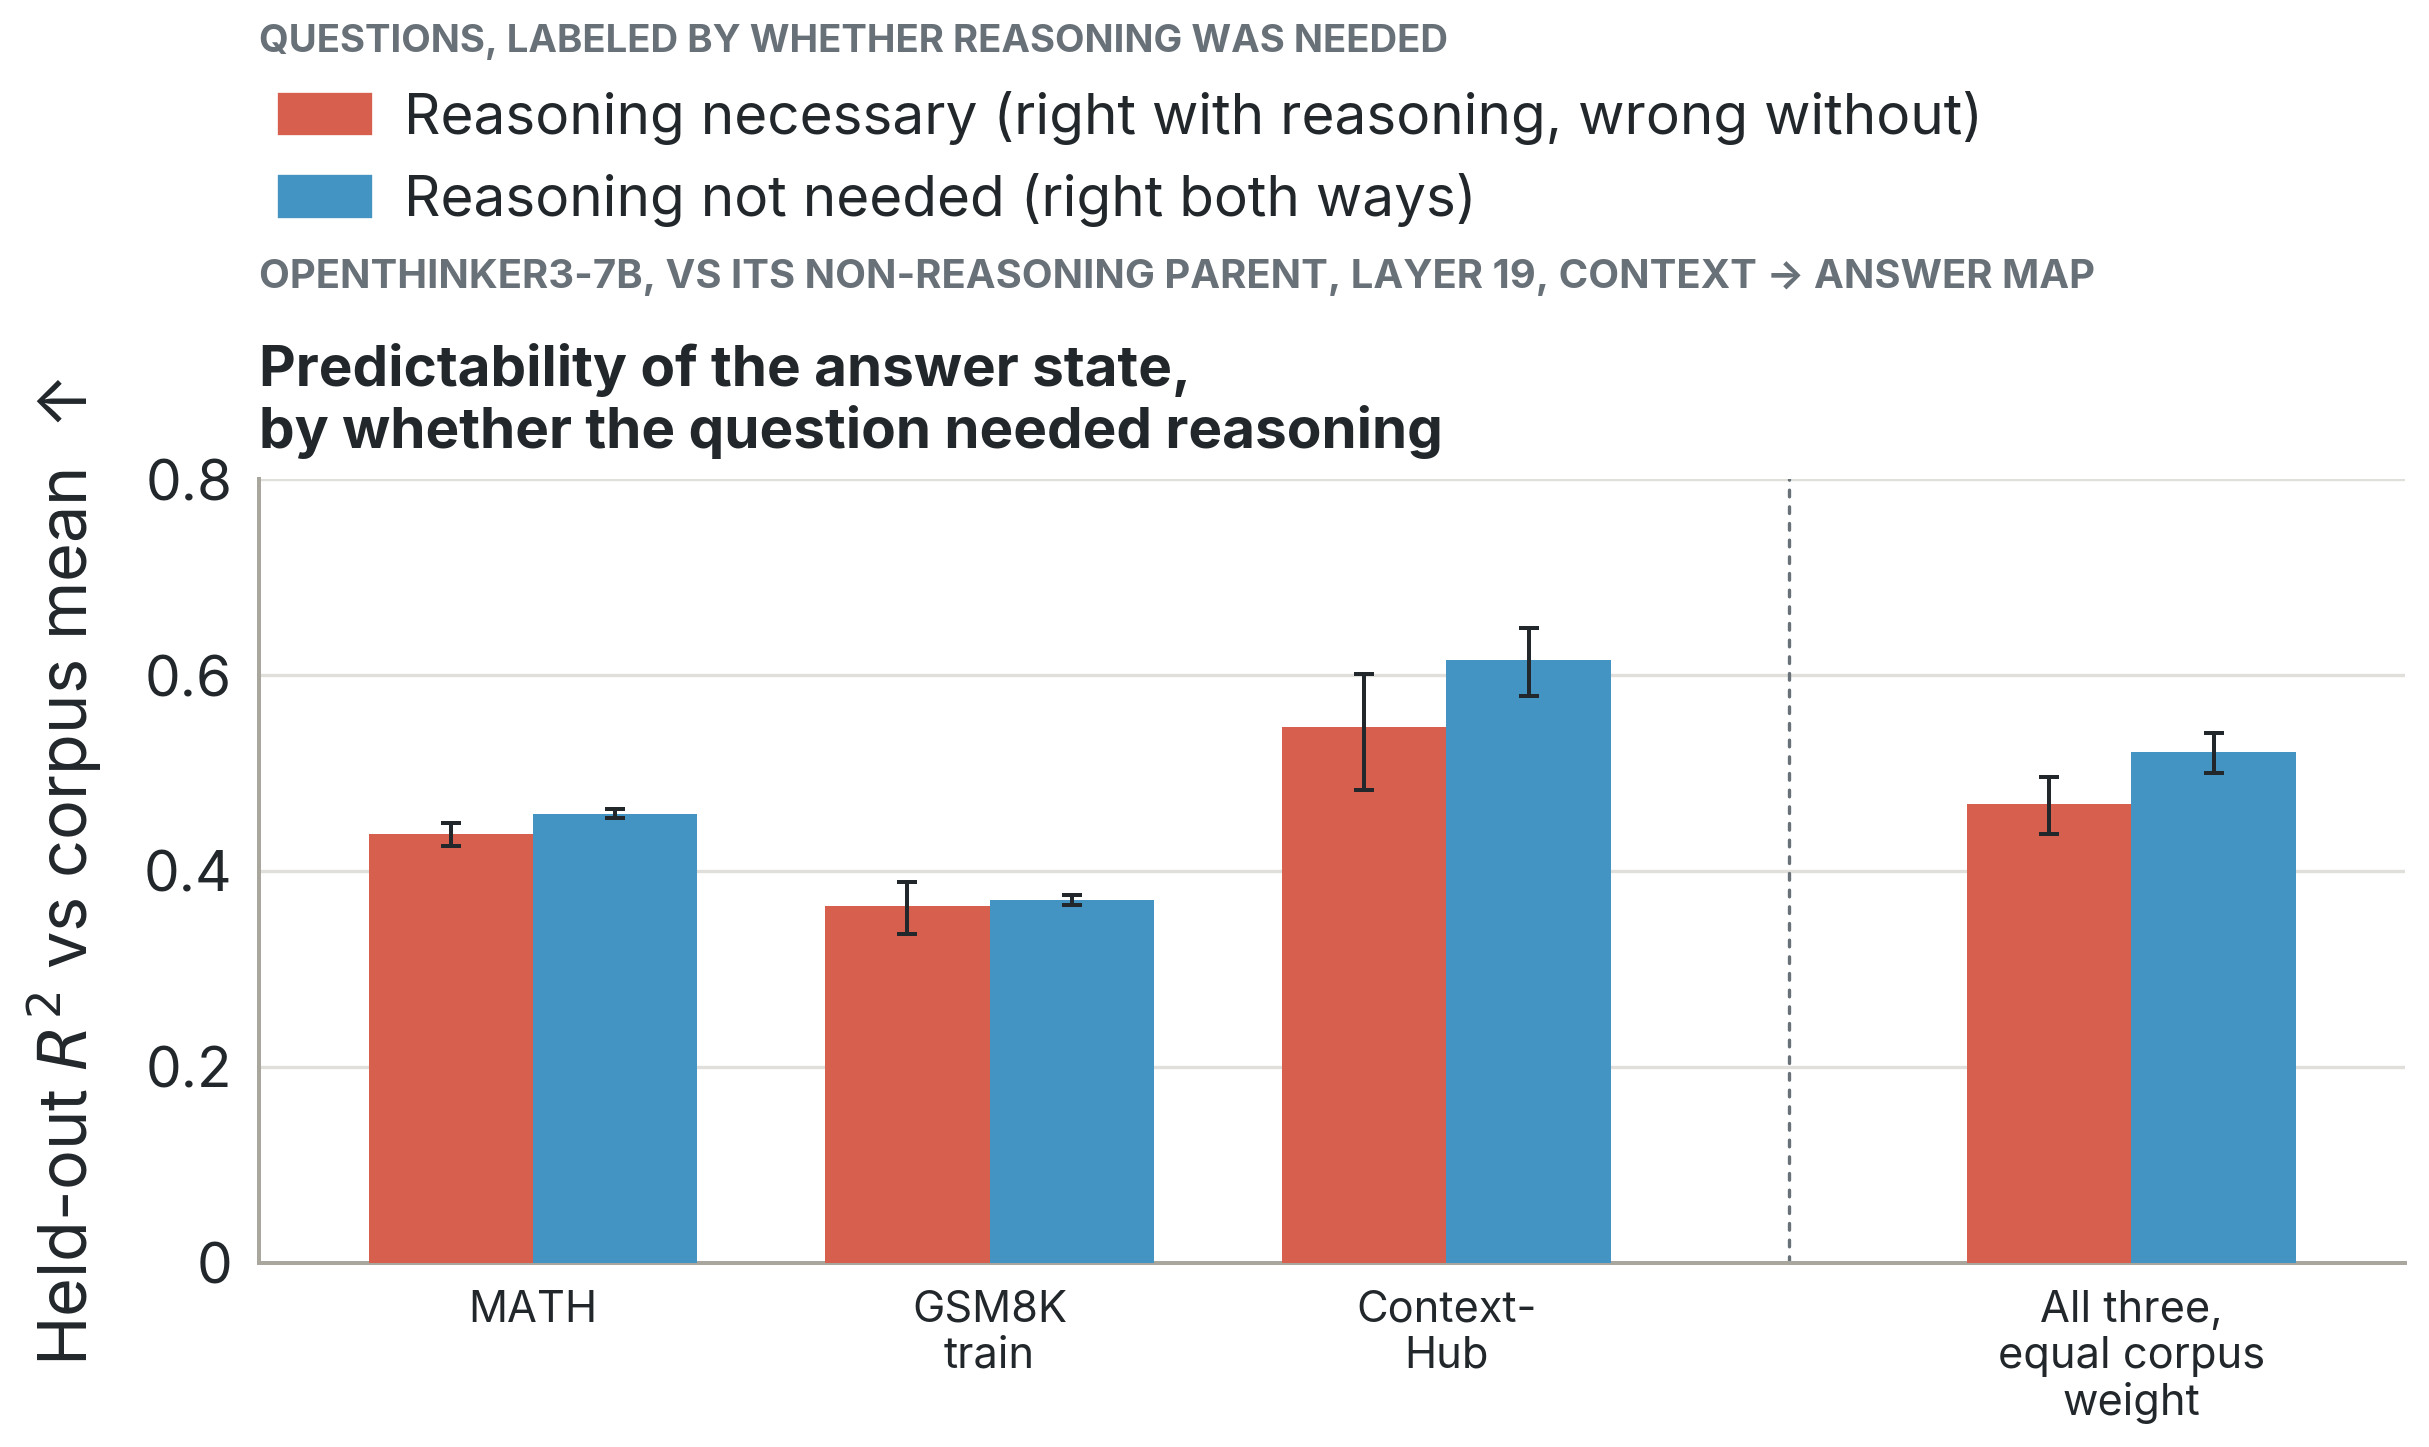
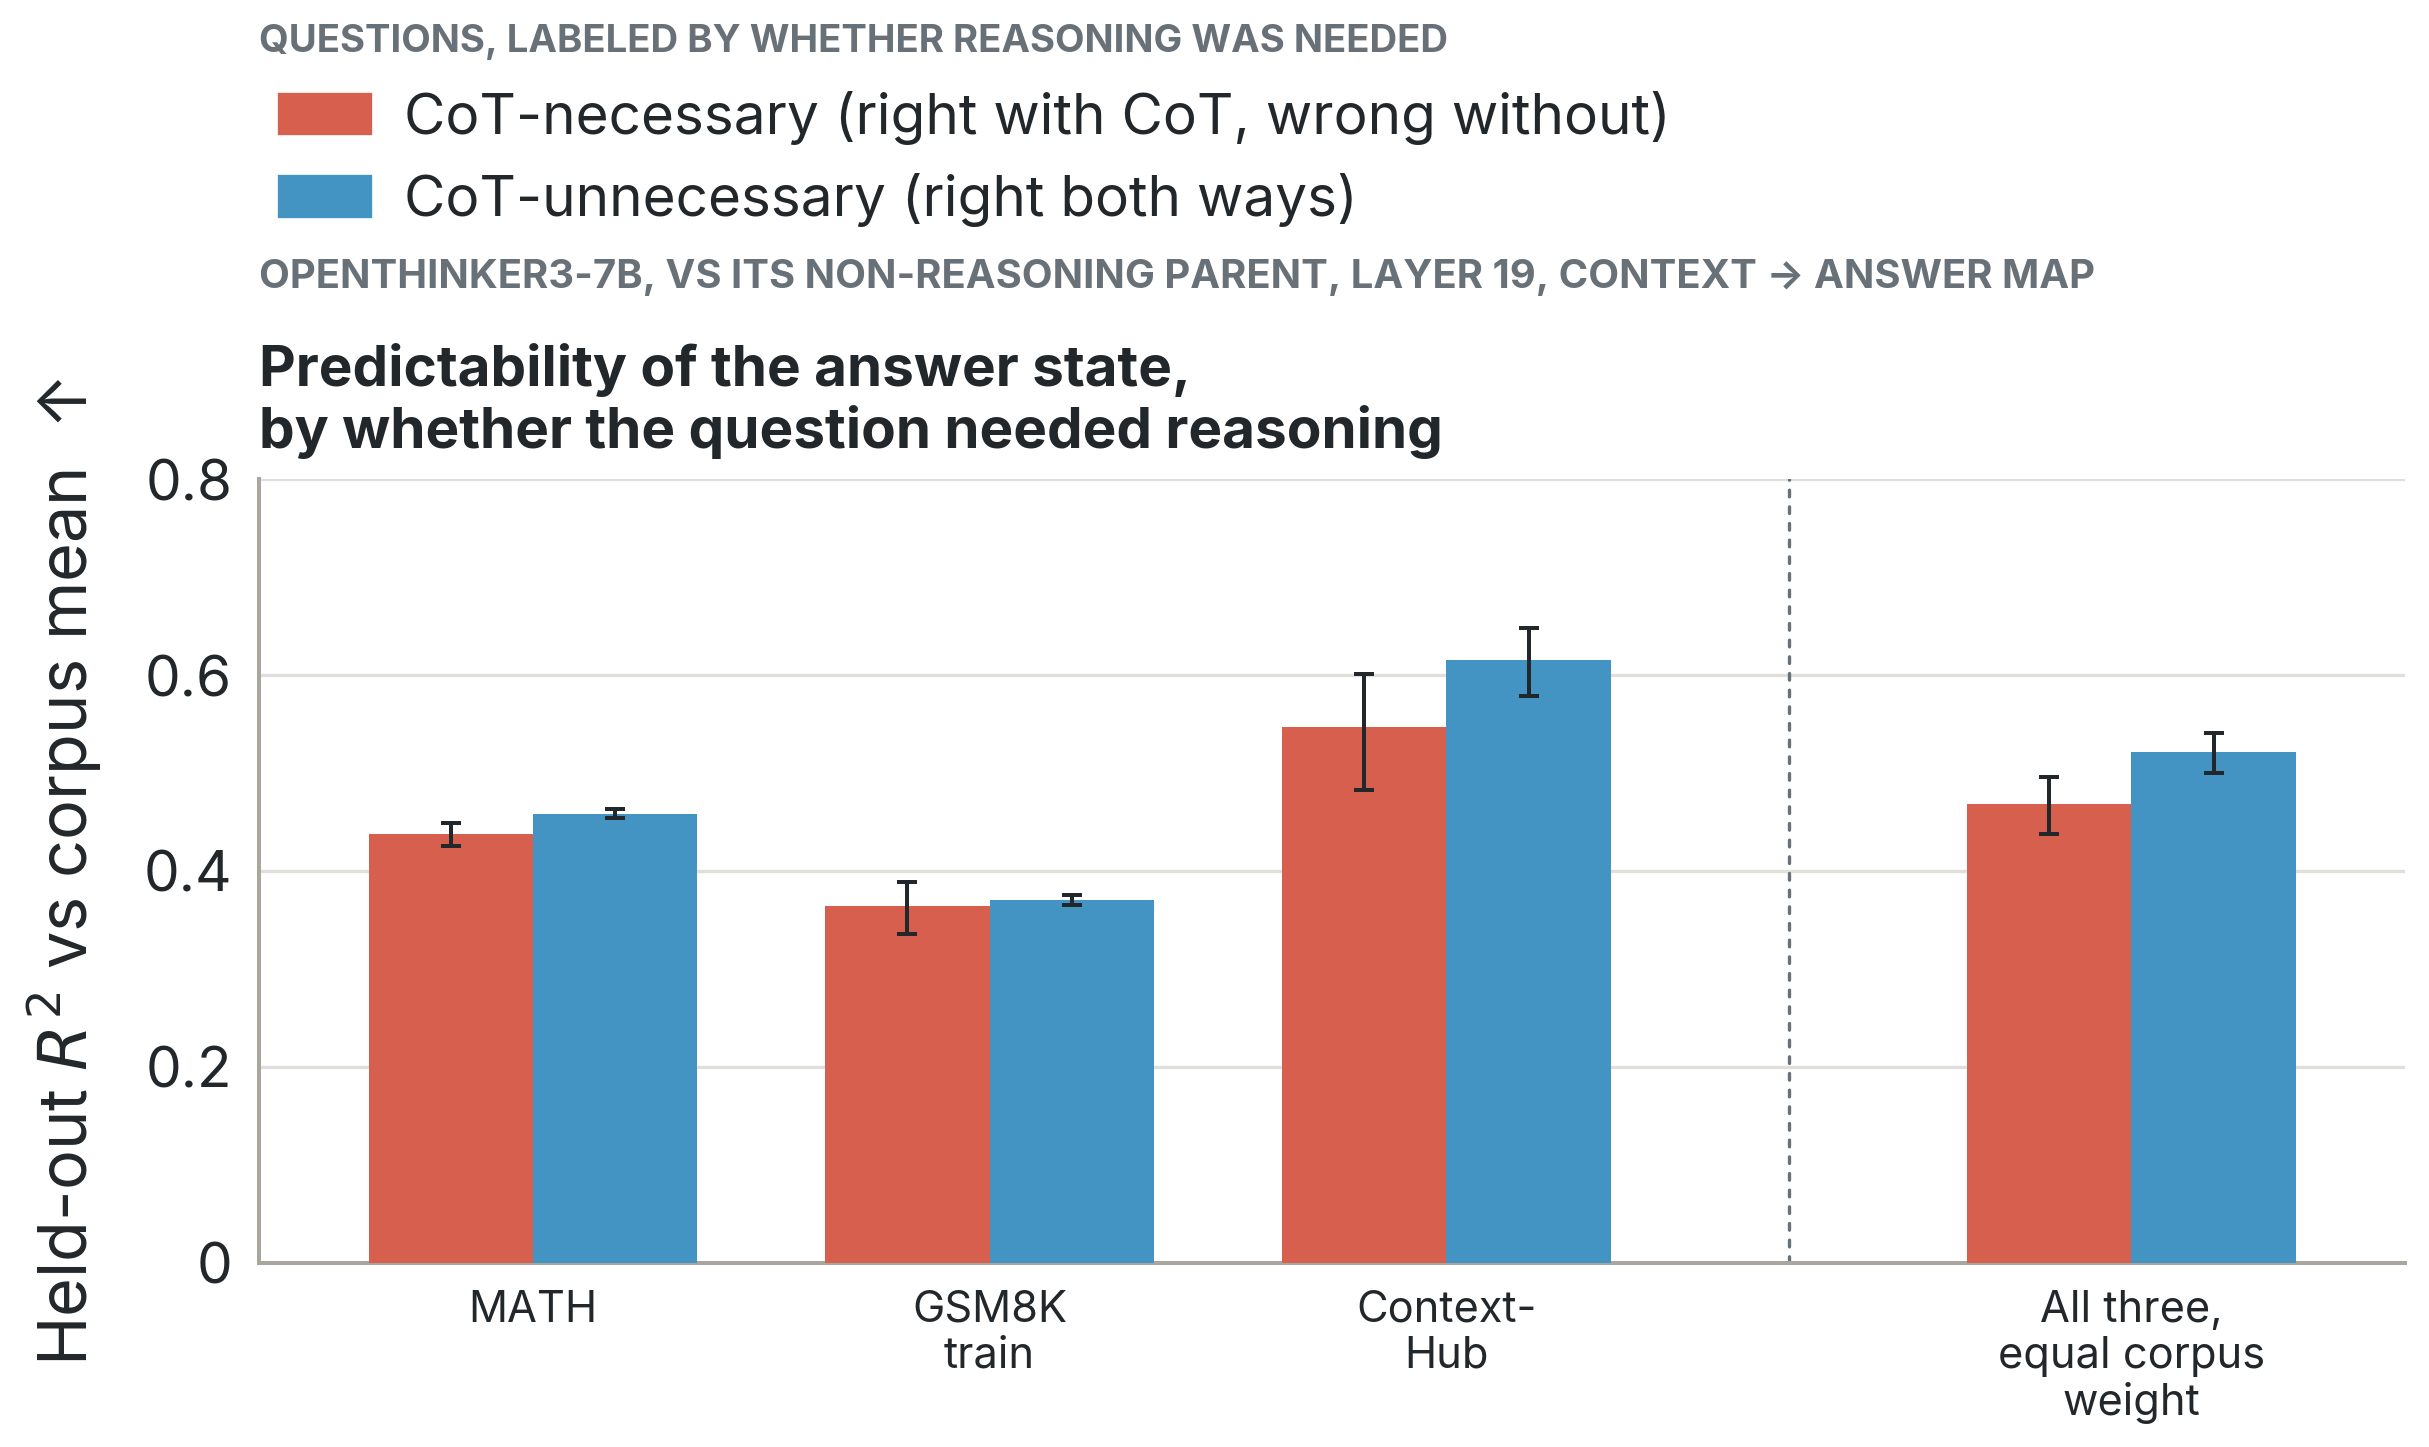
Necessity R^2 figure: CoT-necessary / CoT-unnecessary legend labels
Generated with [Claude Code](https://claude.ai/code)
via [Happy](https://happy.engineering)

Changed region(s): [[0.1544, 0.0622, 0.8337, 0.0933], [0.1544, 0.1244, 0.6175, 0.1555]]

diff --git a/scripts/section45_cot_necessity_r2_figure.py b/scripts/section45_cot_necessity_r2_figure.py
@@ -92,8 +92,8 @@ CELLS = {"p7_A": "context", "p7_D": "end_of_thought"}
 GROUPS = ("necessary", "both_correct", "both_wrong", "other")
 GROUP_COLOR = {"necessary": "#D6604D", "both_correct": "#4393C3"}
 GROUP_LABEL = {
-    "necessary": "Reasoning necessary (right with reasoning, wrong without)",
-    "both_correct": "Reasoning not needed (right both ways)",
+    "necessary": "CoT-necessary (right with CoT, wrong without)",
+    "both_correct": "CoT-unnecessary (right both ways)",
 }
 N_BOOT = 1000
 SEED = 0
